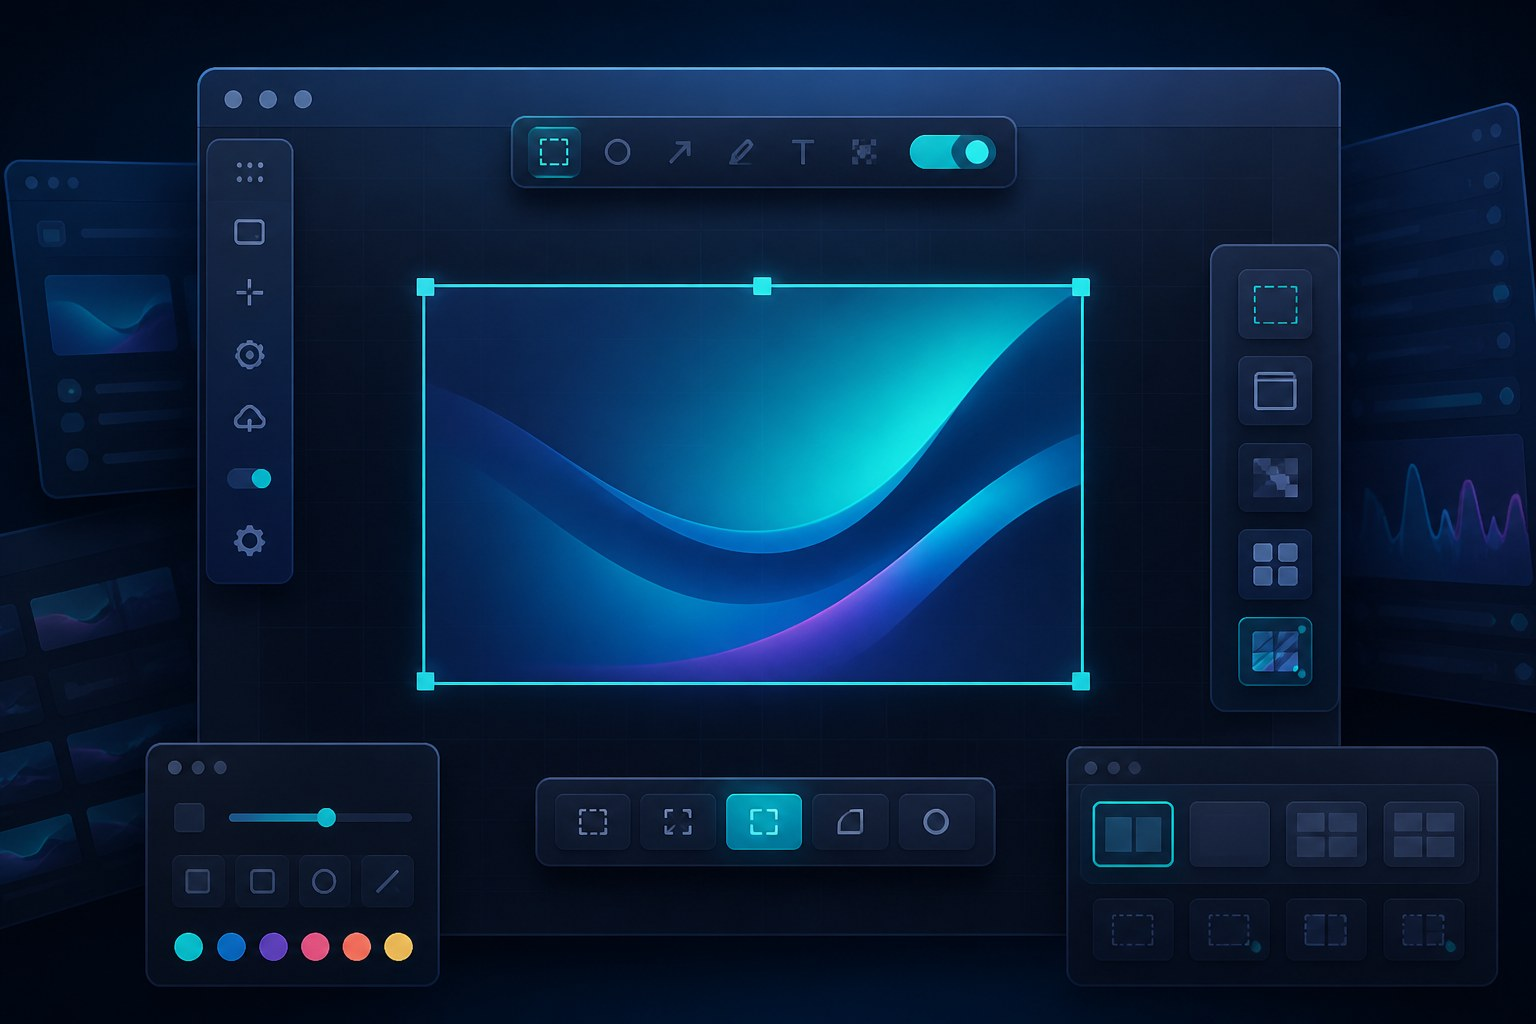
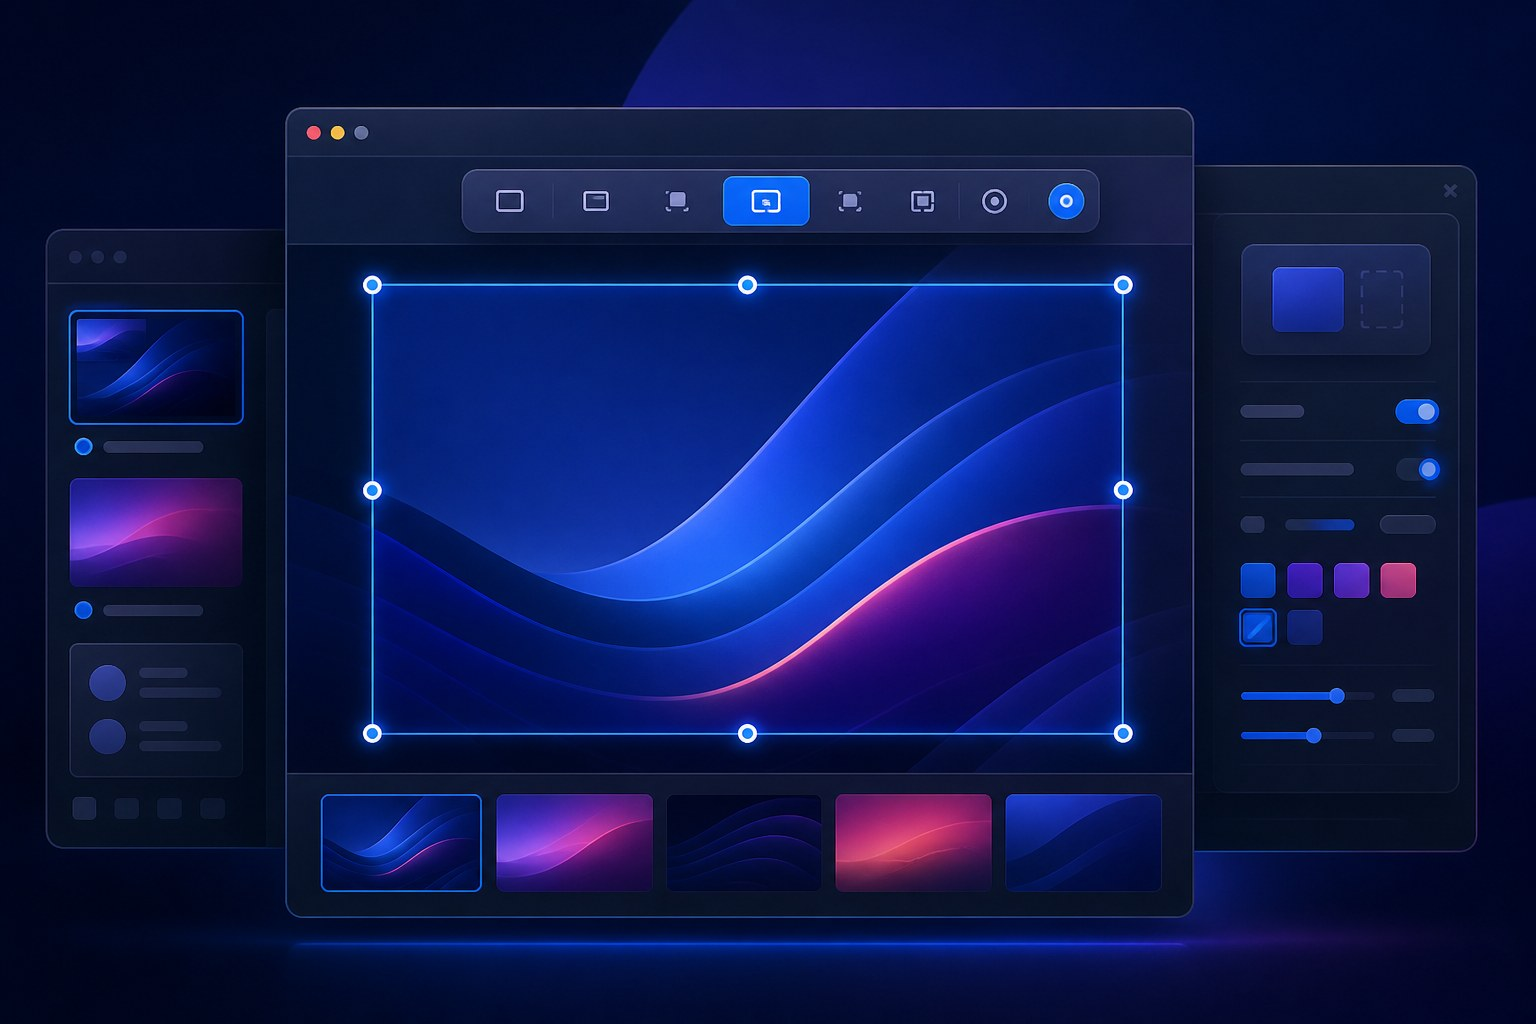
Switch site to azure-rose palette and refresh product posters.

diff --git a/docs/styles.css b/docs/styles.css
@@ -1,16 +1,16 @@
 :root {
-  --bg: #101826;
-  --panel: #172235;
-  --panel-2: #1c2940;
-  --line: rgba(232, 238, 248, 0.12);
+  --bg: #0b1424;
+  --panel: #121e33;
+  --panel-2: #182742;
+  --line: rgba(230, 238, 252, 0.12);
   --text: #eef3fb;
   --muted: rgba(238, 243, 251, 0.66);
   --faint: rgba(238, 243, 251, 0.4);
-  --teal: #2ec4b6;
-  --teal-dark: #07332e;
-  --red: #ff5a5a;
-  --amber: #f0a83a;
-  --blue: #5b8cff;
+  --accent: #3b82f6;
+  --accent-ink: #071428;
+  --rose: #fb7185;
+  --amber: #fbbf24;
+  --sky: #60a5fa;
   --display: "Manrope", "Noto Sans SC", system-ui, sans-serif;
   --body: "Noto Sans SC", system-ui, sans-serif;
   --pad: clamp(18px, 5vw, 72px);
@@ -37,10 +37,10 @@ body {
   z-index: 0;
   pointer-events: none;
   background:
-    radial-gradient(ellipse 70% 45% at 10% -10%, rgba(46, 196, 182, 0.18), transparent 55%),
-    radial-gradient(ellipse 55% 40% at 95% 5%, rgba(91, 140, 255, 0.14), transparent 50%),
-    radial-gradient(ellipse 40% 35% at 80% 100%, rgba(255, 90, 90, 0.08), transparent 55%),
-    linear-gradient(180deg, #121c2d, var(--bg) 40%, #0d1420);
+    radial-gradient(ellipse 70% 45% at 10% -10%, rgba(59, 130, 246, 0.22), transparent 55%),
+    radial-gradient(ellipse 55% 40% at 95% 5%, rgba(96, 165, 250, 0.14), transparent 50%),
+    radial-gradient(ellipse 40% 35% at 80% 100%, rgba(251, 113, 133, 0.1), transparent 55%),
+    linear-gradient(180deg, #0e1830, var(--bg) 40%, #09101c);
 }
 
 .nav, main, .foot { position: relative; z-index: 1; }
@@ -84,8 +84,8 @@ body {
 }
 .nav-right a:hover { color: var(--text); background: rgba(255,255,255,0.05); }
 .nav-cta {
-  background: var(--teal) !important;
-  color: var(--teal-dark) !important;
+  background: var(--accent) !important;
+  color: var(--accent-ink) !important;
   font-weight: 700 !important;
 }
 
@@ -158,8 +158,8 @@ body {
 }
 .btn:hover { transform: translateY(-1px); }
 .btn-main {
-  background: var(--teal);
-  color: var(--teal-dark);
+  background: var(--accent);
+  color: var(--accent-ink);
 }
 .btn-main:hover { filter: brightness(1.05); }
 .btn-line {
@@ -167,7 +167,7 @@ body {
   border: 1px solid var(--line);
   background: rgba(23, 34, 53, 0.55);
 }
-.btn-line:hover { border-color: rgba(46, 196, 182, 0.4); }
+.btn-line:hover { border-color: rgba(59, 130, 246, 0.4); }
 
 .hero-visual {
   display: grid;
@@ -220,10 +220,10 @@ body {
   color: var(--faint);
   line-height: 1.4;
 }
-.tab:hover { border-color: rgba(46, 196, 182, 0.35); }
+.tab:hover { border-color: rgba(59, 130, 246, 0.35); }
 .tab.is-on {
-  border-color: rgba(46, 196, 182, 0.55);
-  background: linear-gradient(180deg, rgba(46, 196, 182, 0.14), rgba(23, 34, 53, 0.85));
+  border-color: rgba(59, 130, 246, 0.55);
+  background: linear-gradient(180deg, rgba(59, 130, 246, 0.14), rgba(23, 34, 53, 0.85));
   transform: translateY(-1px);
 }
 
@@ -273,8 +273,8 @@ body {
   text-transform: uppercase;
   color: #8ea0b8;
 }
-.kicker-teal { color: var(--teal); }
-.kicker-red { color: var(--red); }
+.kicker-azure { color: var(--accent); }
+.kicker-rose { color: var(--rose); }
 .kicker-amber { color: var(--amber); }
 .block-title h2 {
   margin: 0;
@@ -331,9 +331,9 @@ body {
   width: 7px;
   height: 7px;
   border-radius: 2px;
-  background: var(--teal);
+  background: var(--accent);
 }
-.feature-row.reverse .feature-copy li::before { background: var(--red); }
+.feature-row.reverse .feature-copy li::before { background: var(--rose); }
 .feature-row:last-child .feature-copy li::before { background: var(--amber); }
 .feature-shot {
   margin: 0;
@@ -367,7 +367,7 @@ body {
   display: block;
   font-family: var(--display);
   font-weight: 700;
-  color: var(--teal);
+  color: var(--accent);
   letter-spacing: 0.08em;
   font-size: 13px;
   margin-bottom: 14px;
@@ -402,7 +402,7 @@ body {
   font-family: var(--display);
   font-size: 13px;
   font-weight: 700;
-  color: var(--teal);
+  color: var(--accent);
 }
 .keys em {
   font-style: normal;
@@ -419,8 +419,8 @@ body {
   border-radius: 22px;
   border: 1px solid var(--line);
   background:
-    radial-gradient(ellipse 70% 80% at 0% 0%, rgba(46, 196, 182, 0.14), transparent 50%),
-    radial-gradient(ellipse 50% 60% at 100% 100%, rgba(255, 90, 90, 0.08), transparent 50%),
+    radial-gradient(ellipse 70% 80% at 0% 0%, rgba(59, 130, 246, 0.14), transparent 50%),
+    radial-gradient(ellipse 50% 60% at 100% 100%, rgba(251, 113, 133, 0.08), transparent 50%),
     var(--panel);
 }
 .lead-sm {
@@ -469,7 +469,7 @@ body {
 .download-tips code {
   font-family: ui-monospace, SFMono-Regular, Menlo, monospace;
   font-size: 11.5px;
-  color: var(--teal);
+  color: var(--accent);
 }
 
 .foot {

diff --git a/docs/index.html b/docs/index.html
@@ -54,9 +54,9 @@
 
       <div class="hero-visual" data-carousel>
         <div class="viewport">
-          <img class="frame is-on" src="poster-capture.jpg?v=6" alt="截图选区" data-slide="0" width="1536" height="1024" />
-          <img class="frame" src="poster-record.jpg?v=6" alt="屏幕录制" data-slide="1" width="1536" height="1024" />
-          <img class="frame" src="poster-annotate.jpg?v=6" alt="标注编辑" data-slide="2" width="1536" height="1024" />
+          <img class="frame is-on" src="poster-capture.jpg?v=7" alt="截图选区" data-slide="0" width="1536" height="1024" />
+          <img class="frame" src="poster-record.jpg?v=7" alt="屏幕录制" data-slide="1" width="1536" height="1024" />
+          <img class="frame" src="poster-annotate.jpg?v=7" alt="标注编辑" data-slide="2" width="1536" height="1024" />
         </div>
         <div class="rail">
           <button type="button" class="tab is-on" data-goto="0">
@@ -101,7 +101,7 @@
 
       <div class="feature-row">
         <div class="feature-copy">
-          <p class="kicker kicker-teal">Screenshot</p>
+          <p class="kicker kicker-azure">Screenshot</p>
           <h3>截图工作区</h3>
           <p>区域、窗口、全屏、延时四种方式。选区带放大镜与尺寸参考；确认后工具栏可直达编辑、复制、保存、OCR 或钉在桌面。</p>
           <ul>
@@ -111,13 +111,13 @@
           </ul>
         </div>
         <figure class="feature-shot">
-          <img src="poster-capture.jpg?v=6" alt="截图功能" loading="lazy" width="1536" height="1024" />
+          <img src="poster-capture.jpg?v=7" alt="截图功能" loading="lazy" width="1536" height="1024" />
         </figure>
       </div>
 
       <div class="feature-row reverse">
         <div class="feature-copy">
-          <p class="kicker kicker-red">Recording</p>
+          <p class="kicker kicker-rose">Recording</p>
           <h3>录屏工作区</h3>
           <p>录制不再塞进截图菜单。顶部独立「录制」、主面板录制页、状态栏红点提示，开始 / 暂停 / 停止 / 丢弃路径清楚，导出 H.264 MOV。</p>
           <ul>
@@ -127,7 +127,7 @@
           </ul>
         </div>
         <figure class="feature-shot">
-          <img src="poster-record.jpg?v=6" alt="录屏功能" loading="lazy" width="1536" height="1024" />
+          <img src="poster-record.jpg?v=7" alt="录屏功能" loading="lazy" width="1536" height="1024" />
         </figure>
       </div>
 
@@ -143,7 +143,7 @@
           </ul>
         </div>
         <figure class="feature-shot">
-          <img src="poster-annotate.jpg?v=6" alt="标注功能" loading="lazy" width="1536" height="1024" />
+          <img src="poster-annotate.jpg?v=7" alt="标注功能" loading="lazy" width="1536" height="1024" />
         </figure>
       </div>
     </section>
